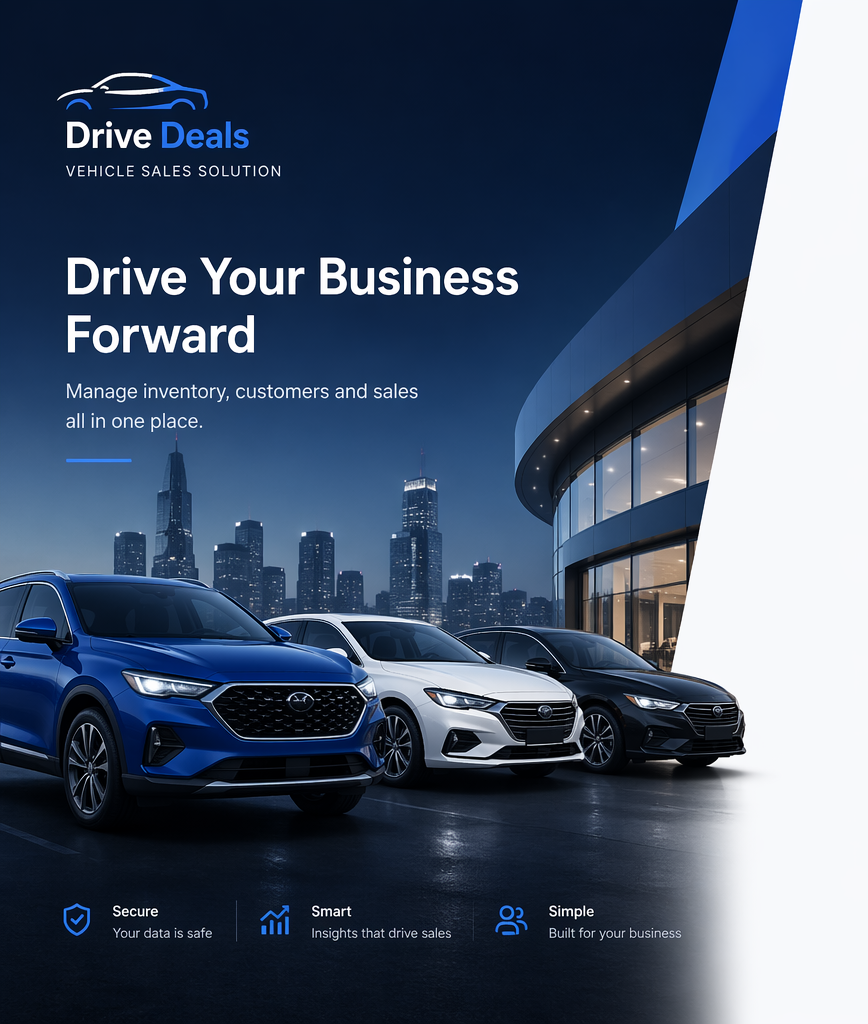
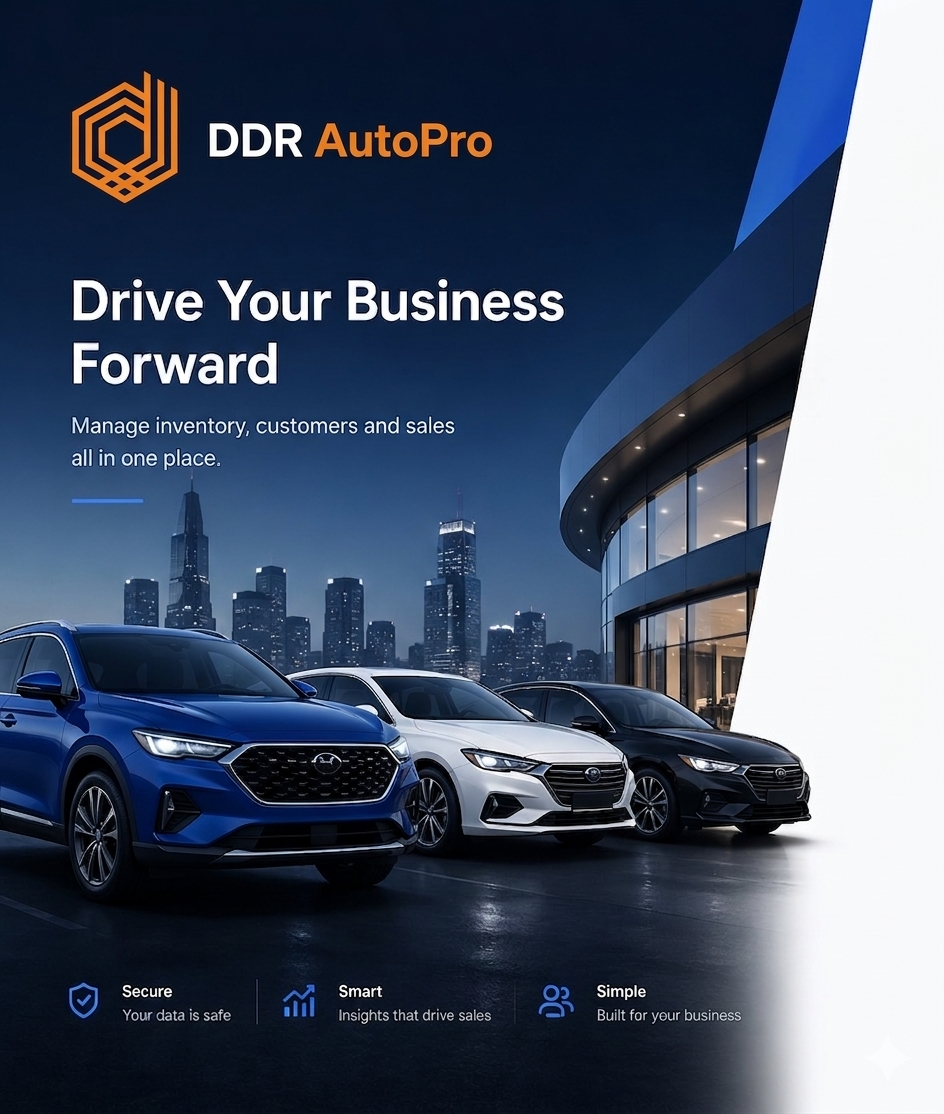
login page

diff --git a/src/pages/LoginPage.tsx b/src/pages/LoginPage.tsx
@@ -1,16 +1,15 @@
 import React, { useState, useEffect } from "react";
 import { useDispatch, useSelector } from 'react-redux';
 import { useNavigate } from 'react-router-dom';
-import { 
-  Eye, 
-  EyeOff, 
-  Mail, 
-  Lock, 
-  ArrowRight, 
-  ShieldCheck, 
-  BarChart3, 
-  LayoutGrid, 
-  User,
+import {
+  Eye,
+  EyeOff,
+  Mail,
+  Lock,
+  ArrowRight,
+  ShieldCheck,
+  BarChart3,
+  LayoutGrid,
   Car
 } from "lucide-react";
 import { loginAction } from '@/store/ducks/auth.duck';
@@ -74,8 +73,8 @@ export default function LoginPage() {
     <div className="h-screen w-full flex bg-[#f8fafc] overflow-hidden font-sans">
       {/* Left Panel - Branding Image */}
       <div className="relative hidden md:flex flex-col w-1/2 bg-[#020617] overflow-hidden">
-        <img 
-          src="/Login page 2.png" 
+        <img
+          src="/Login page 2.png"
           className="w-full h-full object-cover"
           alt="Branding and features illustration"
         />
@@ -84,18 +83,18 @@ export default function LoginPage() {
       {/* Right Panel - Login Form */}
       <div className="flex-1 flex flex-col justify-center items-center p-4 lg:p-6 overflow-y-auto">
         <div className="w-full max-w-[420px] bg-white p-6 lg:p-8 rounded-3xl shadow-[0_32px_64px_-16px_rgba(0,0,0,0.08)] border border-gray-100/50 flex flex-col items-center my-auto">
-          
+
           {/* Form Header */}
-          <div className="w-12 h-12 bg-[#2563eb] rounded-full flex items-center justify-center mb-3 shadow-xl shadow-blue-600/20">
-            <User className="w-6 h-6 text-white" strokeWidth={1.5} />
+          <div className="w-24 h-24 bg-orange-50/50 rounded-full flex items-center justify-center mb-6 border border-orange-100/50 shadow-inner">
+            <img src="/logo.png" className="w-14 h-14 object-contain" alt="Logo" />
           </div>
 
-          <div className="text-center space-y-0.5 mb-5 w-full">
-            <h3 className="text-xl font-extrabold text-slate-900 tracking-tight leading-tight">
+          <div className="text-center space-y-1 mb-6 w-full">
+            <h3 className="text-2xl font-extrabold text-slate-900 tracking-tight leading-tight">
               {showForgot ? "Forgot Password" : "Welcome Back!"}
             </h3>
-            <p className="text-slate-500 font-medium text-xs">
-              {showForgot ? "We'll send you recovery instructions" : "Login to your account to continue"}
+            <p className="text-slate-500 font-medium text-sm">
+              {showForgot ? "We'll send you recovery instructions" : "Sign in to continue to your account"}
             </p>
           </div>
 
@@ -115,7 +114,7 @@ export default function LoginPage() {
                 </div>
               </div>
 
-              <button 
+              <button
                 onClick={handleForgot}
                 className="w-full bg-[#2563eb] hover:bg-blue-700 text-white font-bold py-3 rounded-xl flex items-center justify-center gap-2 transition-all shadow-lg shadow-blue-600/20 active:scale-[0.98] text-sm"
               >
@@ -198,14 +197,14 @@ export default function LoginPage() {
               </button>
 
               {/* Divider */}
-              <div className="relative flex items-center py-1">
+              {/* <div className="relative flex items-center py-1">
                 <div className="flex-grow border-t border-gray-100"></div>
                 <span className="flex-shrink mx-4 text-gray-400 font-bold text-[10px] uppercase tracking-wider">Or continue with</span>
                 <div className="flex-grow border-t border-gray-100"></div>
-              </div>
+              </div> */}
 
               {/* Social Logins */}
-              <div className="grid grid-cols-2 gap-3">
+              {/* <div className="grid grid-cols-2 gap-3">
                 <button 
                   type="button"
                   className="flex items-center justify-center gap-2 px-3 py-2.5 border border-gray-100 rounded-xl hover:bg-gray-50 transition-colors font-bold text-slate-700 text-xs shadow-sm"
@@ -230,7 +229,7 @@ export default function LoginPage() {
                   </div>
                   Microsoft
                 </button>
-              </div>
+              </div> */}
 
               {/* Registration Link */}
               <p className="text-center text-slate-500 font-bold text-xs pt-1">

diff --git a/src/pages/DashboardPage.tsx b/src/pages/DashboardPage.tsx
@@ -240,19 +240,35 @@ const DashboardPage = () => {
           <h3 className="erp-section-title">Available Stock — By Model</h3>
           <p className="text-xs text-muted-foreground mb-4">Current inventory available for sale, grouped by model</p>
           {modelAvailableData.length > 0 ? (
-            <ResponsiveContainer width="100%" height={240}>
-              <BarChart data={modelAvailableData} layout="vertical" margin={{ left: 8, right: 16 }}>
-                <CartesianGrid strokeDasharray="3 3" stroke="hsl(214,20%,90%)" horizontal={false} />
-                <XAxis type="number" tick={{ fontSize: 11 }} allowDecimals={false} />
-                <YAxis dataKey="model" type="category" tick={{ fontSize: 10 }} width={96} />
-                <Tooltip />
-                <Bar dataKey="count" radius={[0, 6, 6, 0]} fill="hsl(152,60%,40%)">
-                  {modelAvailableData.map((_, i) => (
-                    <Cell key={i} fill={COLORS[i % COLORS.length]} />
-                  ))}
-                </Bar>
-              </BarChart>
-            </ResponsiveContainer>
+            <>
+              <ResponsiveContainer width="100%" height={200}>
+                <PieChart>
+                  <Pie
+                    data={modelAvailableData}
+                    dataKey="count"
+                    nameKey="model"
+                    cx="50%"
+                    cy="50%"
+                    outerRadius={80}
+                    strokeWidth={2}
+                  >
+                    {modelAvailableData.map((_, i) => (
+                      <Cell key={i} fill={COLORS[i % COLORS.length]} />
+                    ))}
+                  </Pie>
+                  <Tooltip />
+                </PieChart>
+              </ResponsiveContainer>
+              <div className="grid grid-cols-2 gap-2 mt-3">
+                {modelAvailableData.map((item, i) => (
+                  <div key={item.model} className="flex items-center gap-2 text-xs">
+                    <span className="w-2.5 h-2.5 rounded-full flex-shrink-0" style={{ backgroundColor: COLORS[i % COLORS.length] }} />
+                    <span className="text-muted-foreground truncate">{item.model}</span>
+                    <span className="ml-auto font-black tabular-nums">{item.count}</span>
+                  </div>
+                ))}
+              </div>
+            </>
           ) : (
             <div className="flex items-center justify-center h-48 text-sm text-muted-foreground">No available vehicles in stock</div>
           )}
